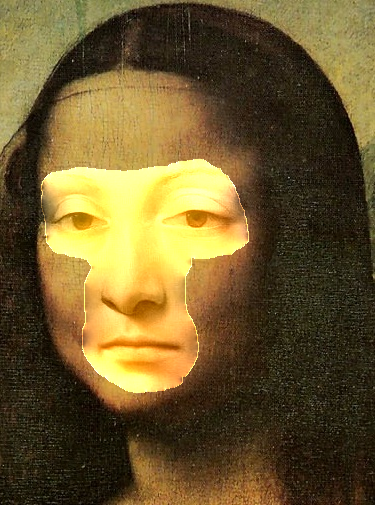
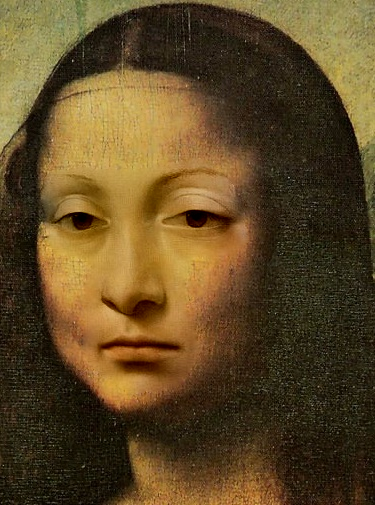
It works, added mixed gradient

Changed region(s): [[0.088, 0.297, 0.6747, 0.802]]

diff --git a/poisson_image_editing.py b/poisson_image_editing.py
@@ -32,17 +32,6 @@ def preprocess_mask(mask):
     return mask, mask_border
 
 
-# def compute_source_region(source, mask):
-#     indices = np.where(mask == 255)
-#     rows = indices[0]
-#     cols = indices[1]
-#     top, bottom = rows.min(), rows.max() + 1
-#     left, right = cols.min(), cols.max() + 1
-#
-#     source_region = source[top:bottom, left:right]
-#     region_shape = source_region.shape
-#     return source_region, region_shape
-
 def compute_regions(source, target, offset):
     source_region = (
         max(-offset[0], 0),  # right
@@ -60,17 +49,14 @@ def compute_regions(source, target, offset):
     return source_region, target_region, region_size
 
 
-def poisson_editing(source, target, mask, offset=(0, 0)):
+def poisson_editing(source, target, mask, offset=(0, 0), mixed=False):
     source = source.astype(np.float32) / 255.0
     target = target.astype(np.float32) / 255.0
 
     source_region, target_region, region_size = compute_regions(source, target, offset)
     mask = mask[source_region[0]:source_region[2], source_region[1]:source_region[3]]
     mask, mask_border = preprocess_mask(mask)
-
-    # cv2.imshow("mask_border", mask_border)
-    # cv2.waitKey(0)
-    # cv2.destroyAllWindows()
+    flt_mask = mask.flatten()
 
     size = np.prod(region_size)
     A = scipy.sparse.identity(size, format='lil')  # Create a sparse matrix with dimensions size x size
@@ -80,95 +66,113 @@ def poisson_editing(source, target, mask, offset=(0, 0)):
             if mask[i, j] == 255:
                 A[index, index] = 4
 
-                if index + 1 < size:
+                if index + 1 < size and flt_mask[index + 1] == 255:
                     A[index + 1, index] = -1
-                if index - 1 >= 0:
+                if index - 1 >= 0 and flt_mask[index - 1] == 255:
                     A[index - 1, index] = -1
-                if index + mask.shape[1] < size:
+                if index + mask.shape[1] < size and flt_mask[index + mask.shape[1]] == 255:
                     A[index, index + mask.shape[1]] = -1
-                if index - mask.shape[1] >= 0:
+                if index - mask.shape[1] >= 0 and flt_mask[index - mask.shape[1]] == 255:
                     A[index, index - mask.shape[1]] = -1
     A = A.tocsr()
 
     for channel in range(target.shape[2]):
         b = np.zeros(size, dtype=np.float32)
         t = target[target_region[0]:target_region[2], target_region[1]:target_region[3], channel]
-        s = source[source_region[0]:source_region[2], source_region[1]:source_region[3], channel]
+
+        if len(source.shape) > 2:
+            s = source[source_region[0]:source_region[2], source_region[1]:source_region[3], channel]
+        else:
+            s = source[source_region[0]:source_region[2], source_region[1]:source_region[3]]
         # t = t.flatten()
         # s = s.flatten()
 
         for i in range(region_size[0]):
             for j in range(region_size[1]):
-                counter = 0
                 index = i * mask.shape[1] + j
                 if mask[i, j] == 255:
-                    # b[index] = 4 * s[i, j]
                     if i > 0:
-                        b[index] += (s[i, j] - s[i - 1, j])
-                        counter += 1
-                        # if mask_border[i - 1, j] == 255:
+                        diff_g = s[i, j] - s[i - 1, j]
+                        if mixed:
+                            diff_f = t[i, j] - t[i - 1, j]
+                            if abs(diff_f) > abs(diff_g):
+                                b[index] += diff_f
+                            else:
+                                b[index] += diff_g
+                        else:
+                            b[index] += diff_g
                         if (i - 1, j) in mask_border:
                             b[index] += t[i - 1, j]
+
                     if i < mask.shape[0] - 1:
-                        # b[index] -= s[i + 1, j]
-                        b[index] += (s[i, j] - s[i + 1, j])
-                        counter += 1
-                        # if mask_border[i + 1, j] == 255:
+                        diff_g = s[i, j] - s[i + 1, j]
+                        if mixed:
+                            diff_f = t[i, j] - t[i + 1, j]
+                            if abs(diff_f) > abs(diff_g):
+                                b[index] += diff_f
+                            else:
+                                b[index] += diff_g
+                        else:
+                            b[index] += diff_g
                         if (i + 1, j) in mask_border:
                             b[index] += t[i + 1, j]
+
                     if j > 0:
-                        # b[index] -= s[i, j - 1]
-                        b[index] += (s[i, j] - s[i, j - 1])
-                        counter += 1
-                        # if mask_border[i, j - 1] == 255:
+                        diff_g = s[i, j] - s[i, j - 1]
+                        if mixed:
+                            diff_f = t[i, j] - t[i, j - 1]
+                            if abs(diff_f) > abs(diff_g):
+                                b[index] += diff_f
+                            else:
+                                b[index] += diff_g
+                        else:
+                            b[index] += diff_g
                         if (i, j - 1) in mask_border:
                             b[index] += t[i, j - 1]
+
                     if j < mask.shape[1] - 1:
-                        # b[index] -= s[i, j + 1]
-                        b[index] += (s[i, j] - s[i, j + 1])
-                        counter += 1
-                        # if mask_border[i, j + 1] == 255:
+                        diff_g = s[i, j] - s[i, j + 1]
+                        if mixed:
+                            diff_f = t[i, j] - t[i, j + 1]
+                            if abs(diff_f) > abs(diff_g):
+                                b[index] += diff_f
+                            else:
+                                b[index] += diff_g
+                        else:
+                            b[index] += diff_g
                         if (i, j + 1) in mask_border:
                             b[index] += t[i, j + 1]
-                    # b[index] += counter * s[i, j]
-
-                    # b[index] = 4 * s[i, j]
-                    # if i > 0:
-                    #     b[index] -= s[i - 1, j]
-                    # if i < mask.shape[0] - 1:
-                    #     b[index] -= s[i + 1, j]
-                    # if j > 0:
-                    #     b[index] -= s[i, j - 1]
-                    # if j < mask.shape[1] - 1:
-                    #     b[index] -= s[i, j + 1]
                 else:
                     if i < t.shape[0] and j < t.shape[1]:
                         b[index] = t[i, j]
 
-                    # if i == 0 or i == region_size[0] - 1 or j == 0 or j == region_size[1] - 1:
-                    # if mask_border[i, j] == 255:
-                    #     b[index] += t[i, j]
-                    #     print("ECCOMI")
-                # print(b[index])
-
-        # b = b.astype(np.uint8)
         x = spsolve(A, b)
         x = x.reshape(region_size)
-        print(x[x > 1])
         x[x > 1] = 1
         x[x < 0] = 0
-        print(x[x > 1])
-        # print(x)
         target[target_region[0]:target_region[2], target_region[1]:target_region[3], channel] = x
-        # cv2.imshow("channel " + str(channel), s)
 
     return target
 
 
 if __name__ == '__main__':
-    source = cv2.imread('testimages/test1_src.png')
-    target = cv2.imread('testimages/test1_target.png')
-    mask = cv2.imread('testimages/test1_mask.png', cv2.IMREAD_GRAYSCALE)
+    # source = cv2.imread('testimages/test1_src.png')
+    # target = cv2.imread('testimages/test1_target.png')
+    # mask = cv2.imread('testimages/test1_mask.png', cv2.IMREAD_GRAYSCALE)
+
+    # source = cv2.imread('pera/pomodoro2.jpg', cv2.IMREAD_GRAYSCALE)
+    # target = cv2.imread('pera/pera_target2.jpg')
+    # mask = cv2.imread('pera/pomodoro_mask.jpg', cv2.IMREAD_GRAYSCALE)
+    # source = cv2.resize(source, (500, 500))
+    # target = cv2.resize(target, (500, 500))
+    # mask = cv2.resize(mask, (500, 500))
+
+    # source = cv2.imread('images1/source.jpg')
+    # target = cv2.imread('images1/target.jpg')
+    # mask = cv2.imread('images1/mask_sun.jpg', cv2.IMREAD_GRAYSCALE)
+    # source = cv2.resize(source, (500, 500))
+    # target = cv2.resize(target, (500, 500))
+    # mask = cv2.resize(mask, (500, 500))
 
     # source = cv2.imread('images2/source.jpg')
     # target = cv2.imread('images2/target.jpg')
@@ -177,8 +181,26 @@ if __name__ == '__main__':
     # target = cv2.resize(target, (500, 500))
     # mask = cv2.resize(mask, (500, 500))
 
-    result = poisson_editing(source, target, mask, offset=(40, -30))
-    cv2.imwrite('testimages/result.png', 255 * result)
+    # source = cv2.imread('lavagna/source2.jpg')
+    # target = cv2.imread('lavagna/target.jpg')
+    # mask = cv2.imread('lavagna/mask2.jpg', cv2.IMREAD_GRAYSCALE)
+    # source = cv2.resize(source, (500, 500))
+    # # source = 255 - source
+    # # cv2.imshow('source', source)
+    # target = cv2.resize(target, (500, 500))
+    # mask = cv2.resize(mask, (500, 500))
+
+    source = cv2.imread('rainbow/source.jpg')
+    target = cv2.imread('rainbow/target2.jpg')
+    mask = cv2.imread('rainbow/mask.jpg', cv2.IMREAD_GRAYSCALE)
+    source = cv2.resize(source, (500, 500))
+    target = cv2.resize(target, (500, 500))
+    mask = cv2.resize(mask, (500, 500))
+
+    # result = poisson_editing(source, target, mask, offset=(40, -30))
+    # cv2.imwrite('testimages/result.png', 255 * result)
+    result = poisson_editing(source, target, mask, mixed=True)
+    cv2.imwrite('rainbow/result2_mixed.jpg', 255 * result)
     cv2.imshow('result', result)
     cv2.waitKey(0)
     cv2.destroyAllWindows()
